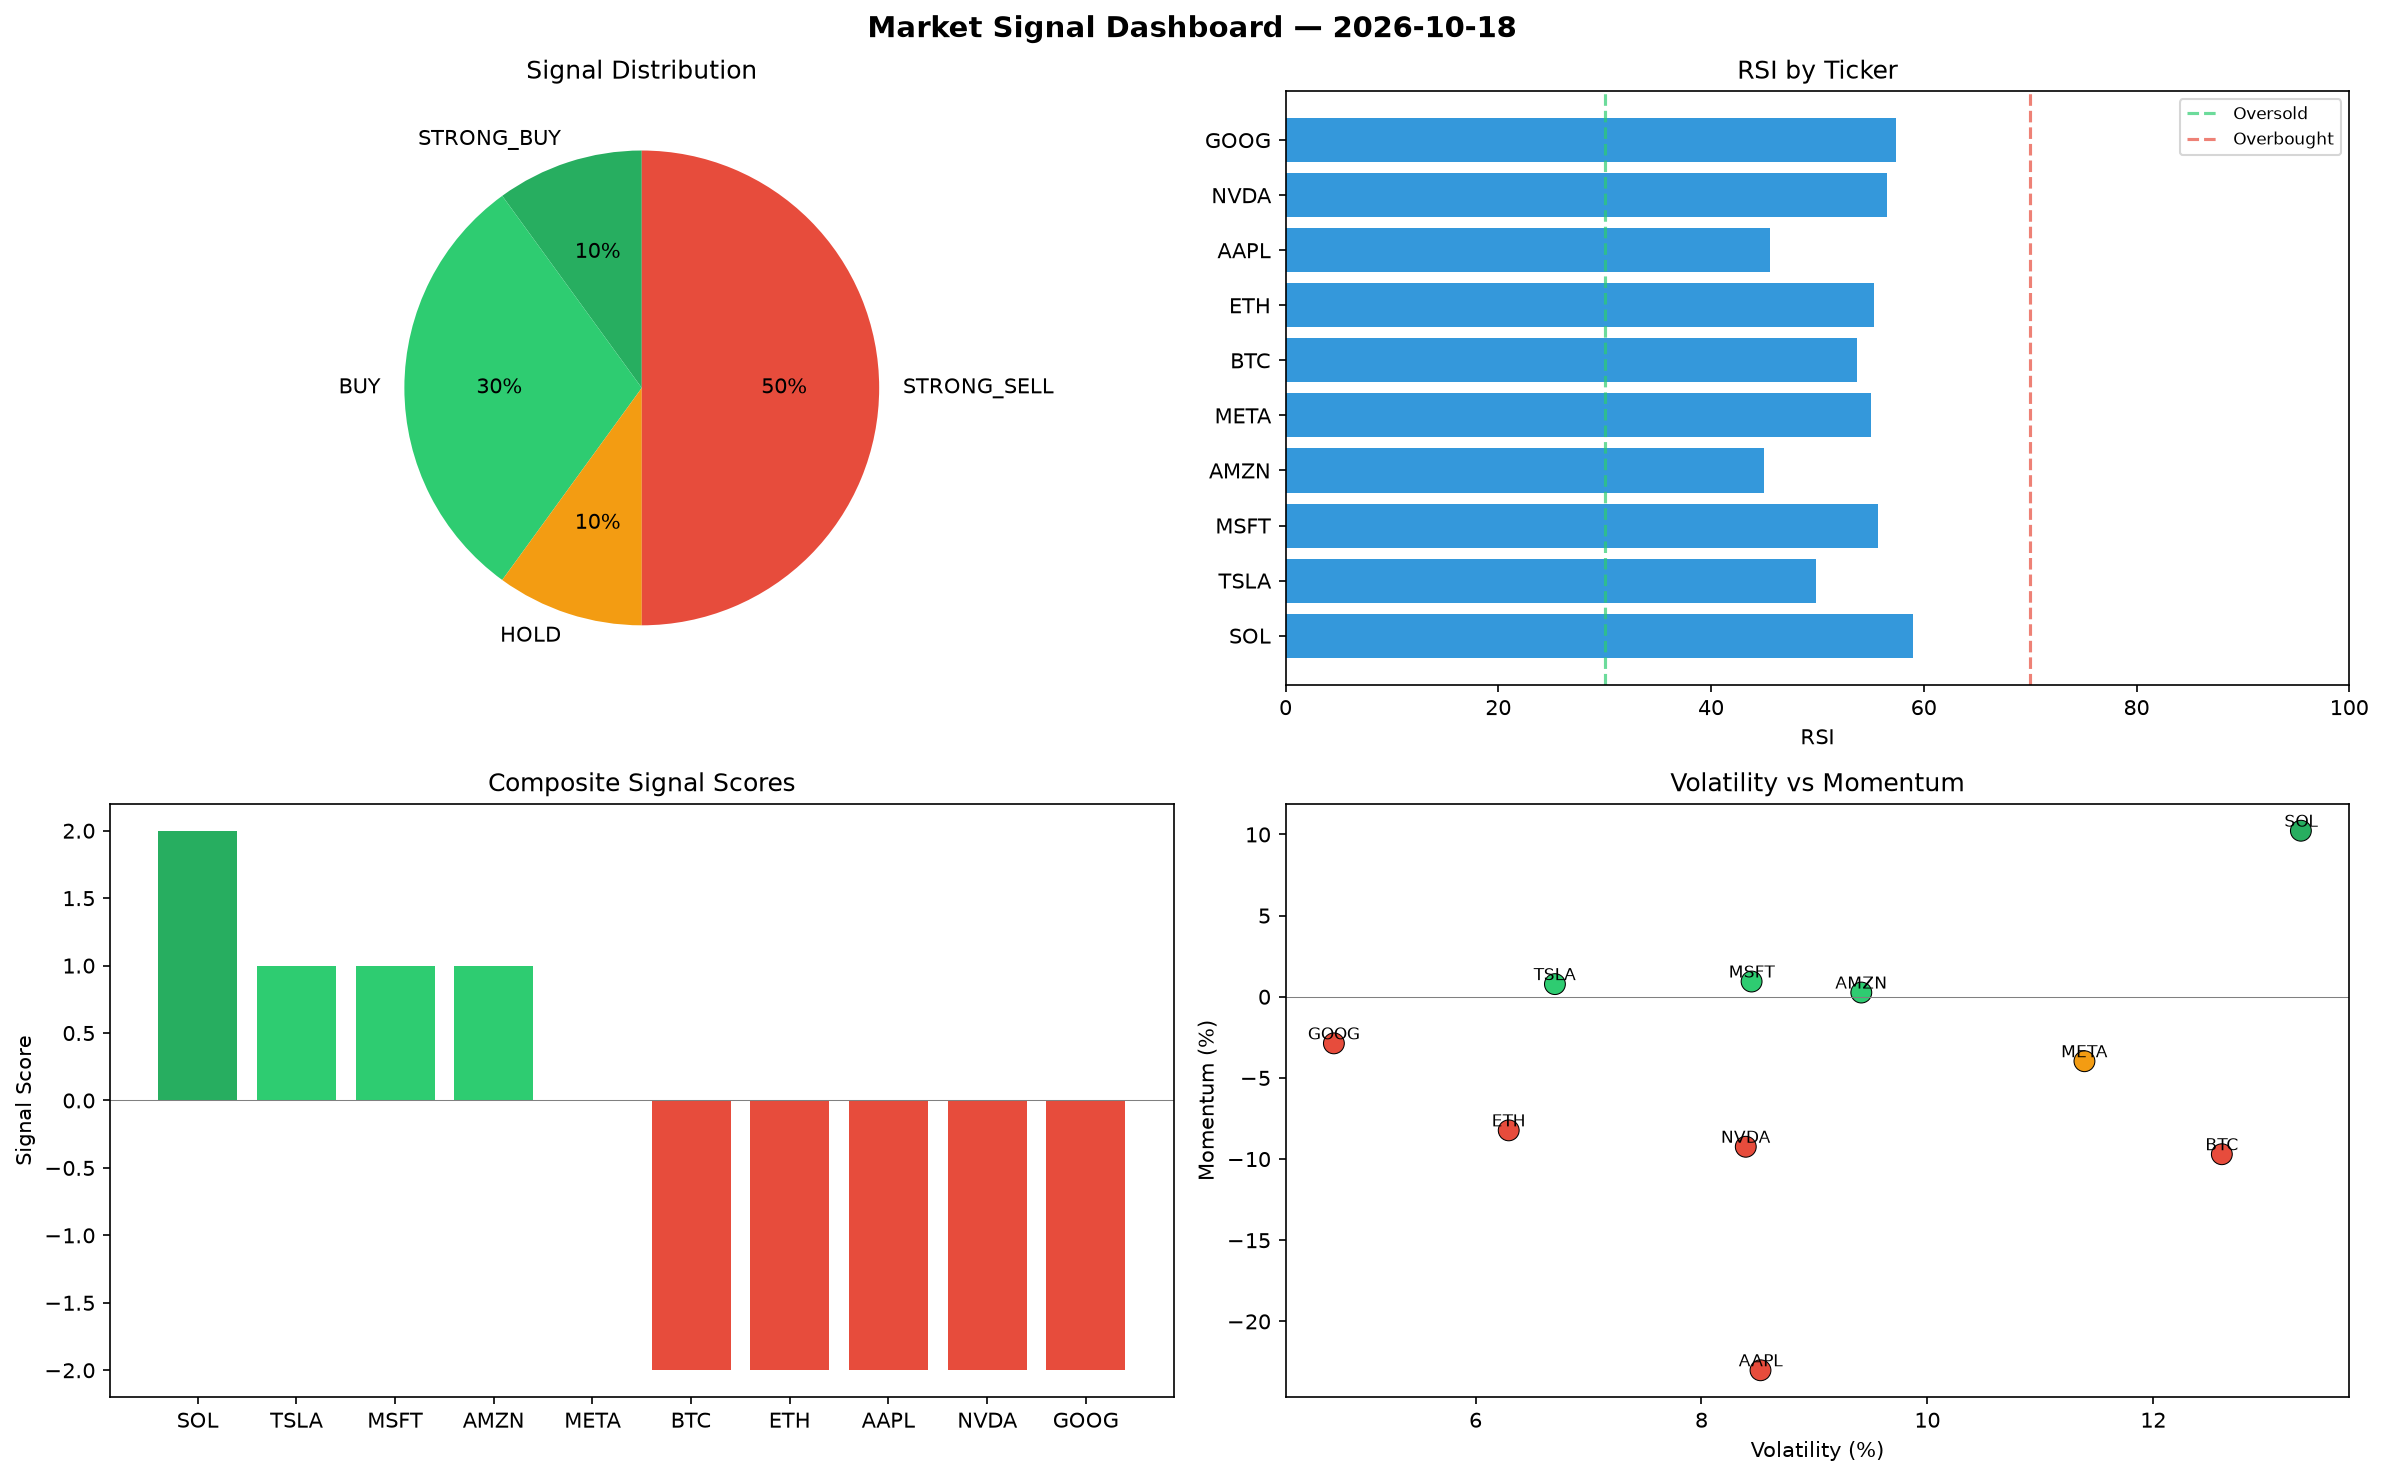
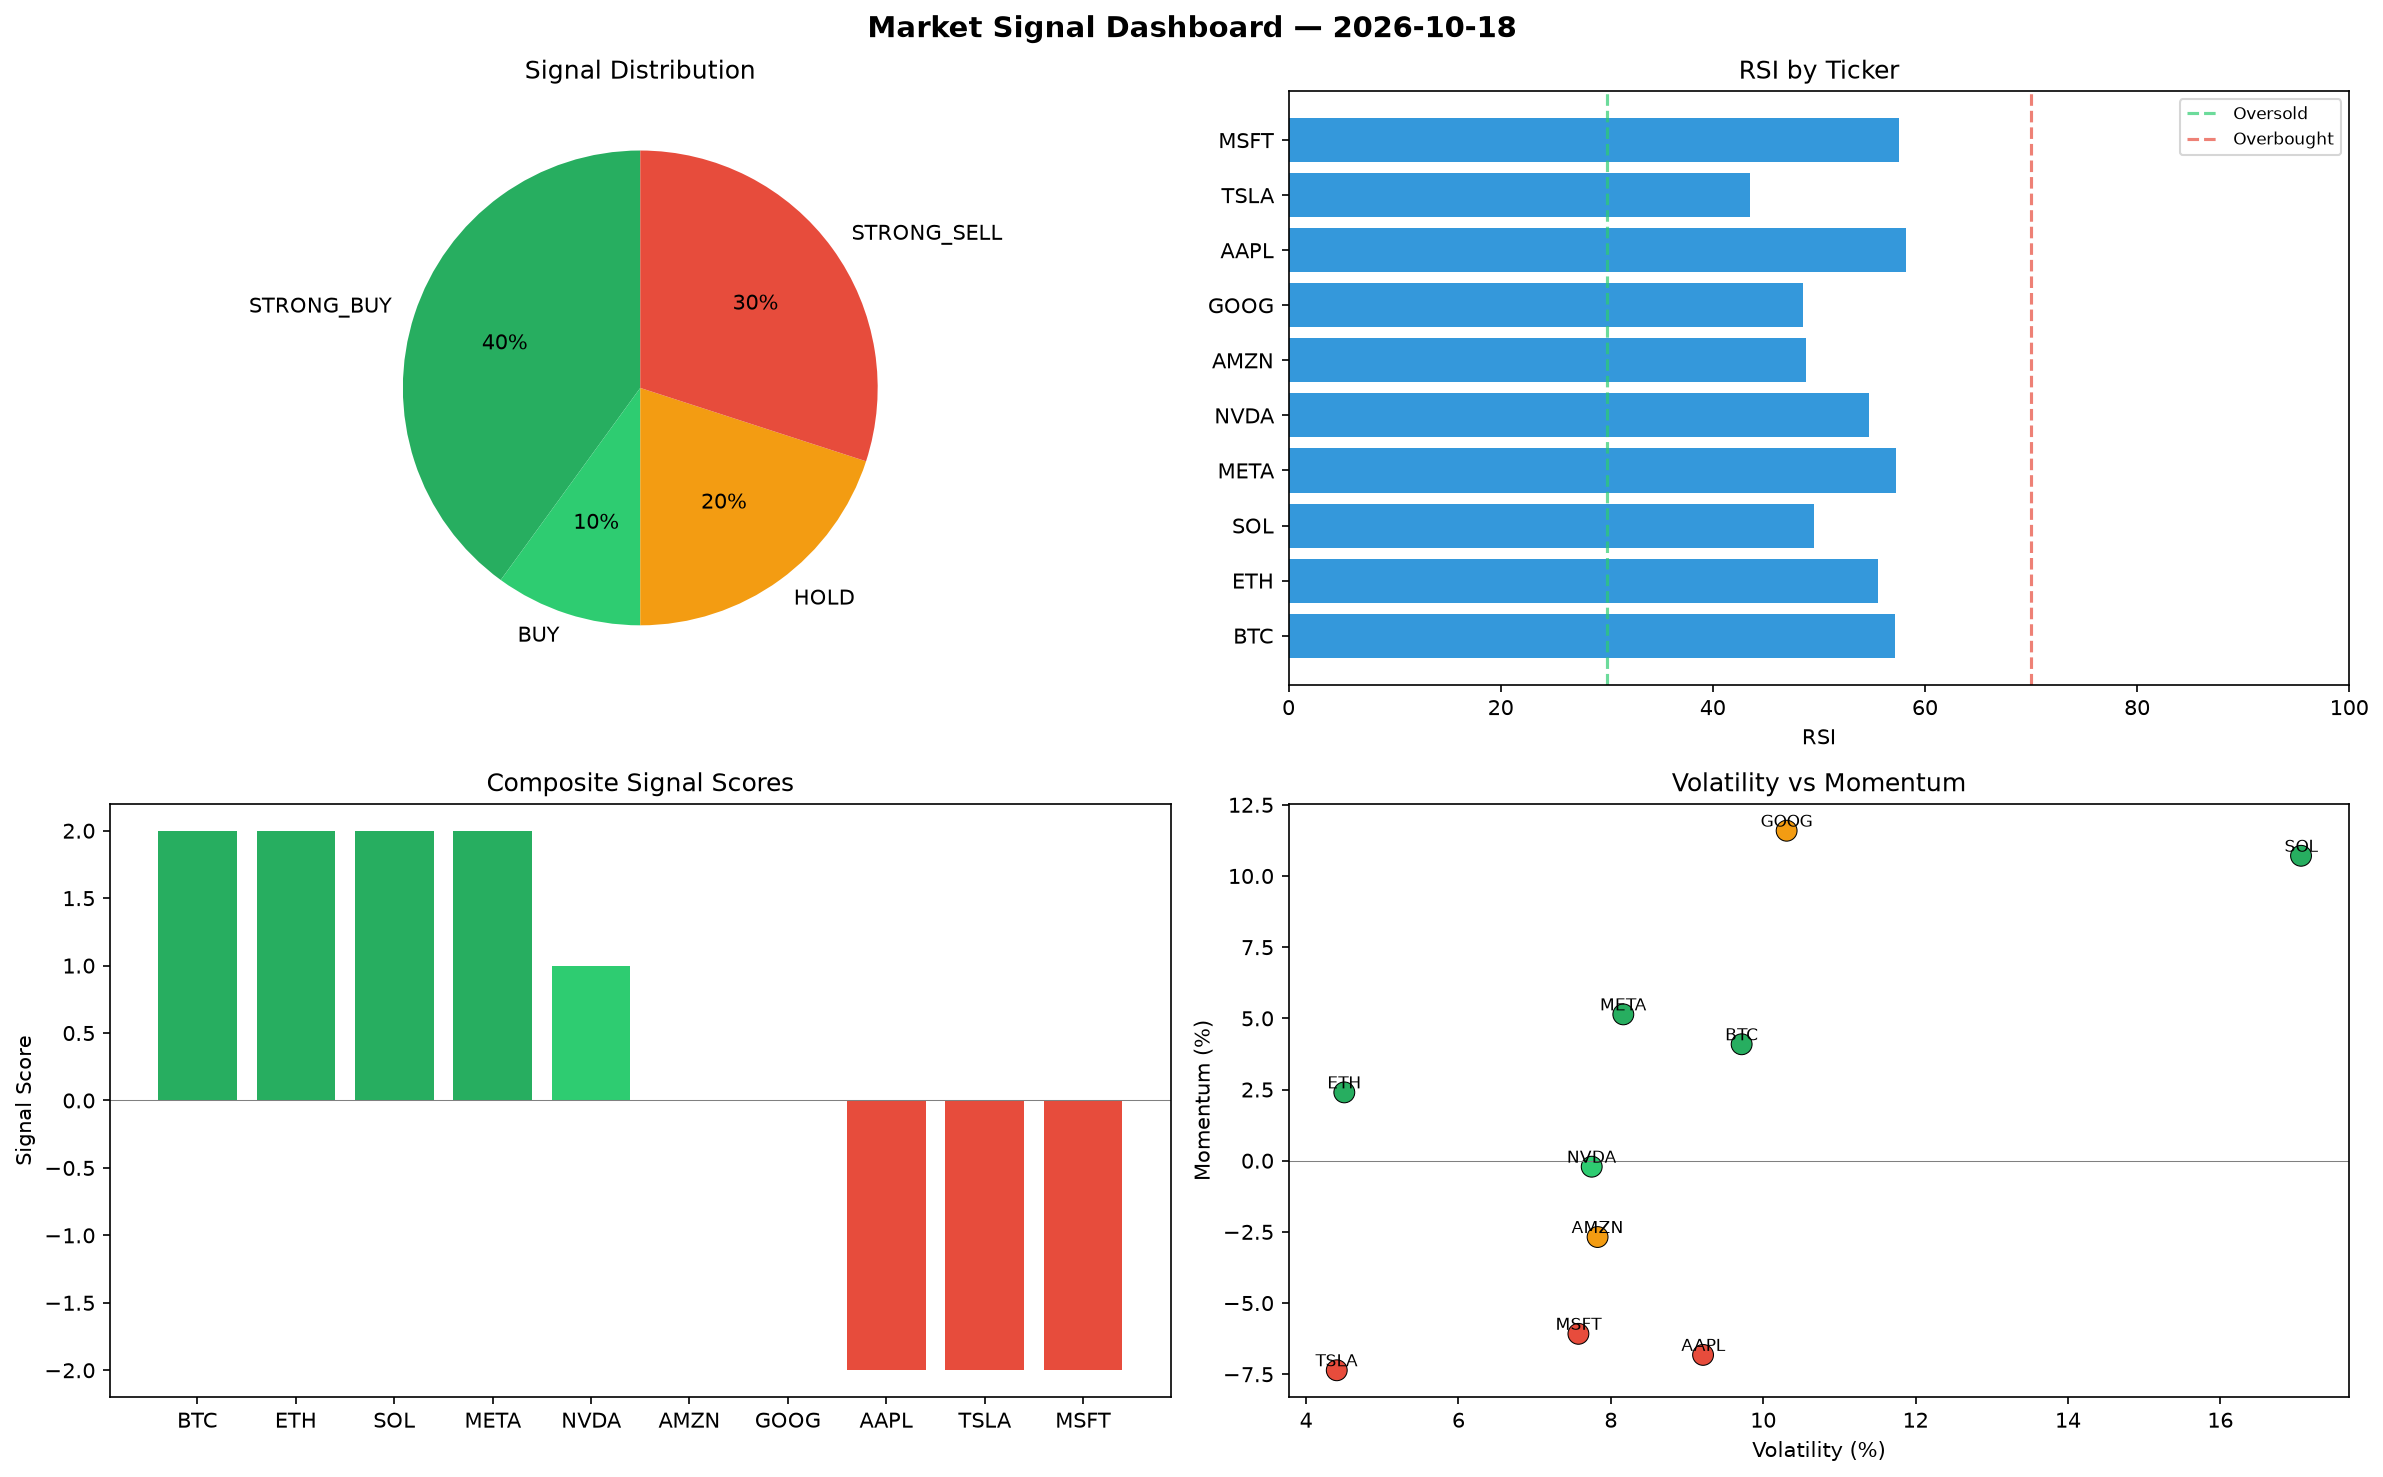
automated-bots: market signals 2026-10-18T17:28

diff --git a/logs/2026-10-18.md b/logs/2026-10-18.md
@@ -1,6 +1,6 @@
 # Market Signal Report — 2026-10-18
 
-**Run ID:** `7756ad7e94` | **Buy:** 4 | **Sell:** 5 | **Hold:** 1
+**Run ID:** `a3762b2951` | **Buy:** 5 | **Sell:** 3 | **Hold:** 2
 
 ![Dashboard](2026-10-18_dashboard.png)
 
@@ -8,28 +8,28 @@
 
 | Ticker | Price | Signal | Score | RSI | Momentum | Confidence |
 |--------|-------|--------|-------|-----|----------|------------|
-| SOL | $2808.23 | **STRONG_BUY** | 2 | 59.02 | 0.1023 | 0.5 |
-| TSLA | $1461.75 | **BUY** | 1 | 49.85 | 0.0078 | 0.25 |
-| MSFT | $3056.37 | **BUY** | 1 | 55.66 | 0.0094 | 0.25 |
-| AMZN | $2101.94 | **BUY** | 1 | 44.98 | 0.0026 | 0.25 |
-| META | $3427.75 | **HOLD** | 0 | 55.01 | -0.0397 | 0.0 |
-| BTC | $2539.2 | **STRONG_SELL** | -2 | 53.76 | -0.097 | 0.5 |
-| ETH | $4533.99 | **STRONG_SELL** | -2 | 55.35 | -0.0823 | 0.5 |
-| AAPL | $2853.27 | **STRONG_SELL** | -2 | 45.51 | -0.2301 | 0.5 |
-| NVDA | $4555.36 | **STRONG_SELL** | -2 | 56.55 | -0.0924 | 0.5 |
-| GOOG | $1716.59 | **STRONG_SELL** | -2 | 57.37 | -0.0287 | 0.5 |
+| BTC | $3999.92 | **STRONG_BUY** | 2 | 57.16 | 0.0409 | 0.5 |
+| ETH | $2543.24 | **STRONG_BUY** | 2 | 55.58 | 0.024 | 0.5 |
+| SOL | $974.62 | **STRONG_BUY** | 2 | 49.58 | 0.1071 | 0.5 |
+| META | $2125.0 | **STRONG_BUY** | 2 | 57.23 | 0.0514 | 0.5 |
+| NVDA | $3154.75 | **BUY** | 1 | 54.77 | -0.0021 | 0.25 |
+| AMZN | $510.11 | **HOLD** | 0 | 48.78 | -0.0268 | 0.0 |
+| GOOG | $1478.77 | **HOLD** | 0 | 48.47 | 0.1159 | 0.0 |
+| AAPL | $3106.2 | **STRONG_SELL** | -2 | 58.19 | -0.0682 | 0.5 |
+| TSLA | $1390.06 | **STRONG_SELL** | -2 | 43.49 | -0.0736 | 0.5 |
+| MSFT | $3627.75 | **STRONG_SELL** | -2 | 57.55 | -0.0608 | 0.5 |
 
 ## Delta vs Yesterday
 
 | Ticker | Today | Yesterday | Price Change | Signal Changed |
 |--------|-------|-----------|-------------|----------------|
-| SOL | STRONG_BUY | STRONG_SELL | 📈 760.68% | ⚠ YES |
-| TSLA | BUY | STRONG_SELL | 📉 -31.99% | ⚠ YES |
-| MSFT | BUY | HOLD | 📉 -13.68% | ⚠ YES |
-| AMZN | BUY | SELL | 📉 -51.98% | ⚠ YES |
-| META | HOLD | STRONG_BUY | 📈 96.55% | ⚠ YES |
-| BTC | STRONG_SELL | HOLD | 📉 -14.96% | ⚠ YES |
-| ETH | STRONG_SELL | STRONG_BUY | 📈 53.49% | ⚠ YES |
-| AAPL | STRONG_SELL | STRONG_BUY | 📈 72.88% | ⚠ YES |
-| NVDA | STRONG_SELL | HOLD | 📈 33.67% | ⚠ YES |
-| GOOG | STRONG_SELL | STRONG_BUY | 📉 -57.77% | ⚠ YES |
+| BTC | STRONG_BUY | HOLD | 📈 33.96% | ⚠ YES |
+| ETH | STRONG_BUY | STRONG_BUY | 📉 -13.9% | — |
+| SOL | STRONG_BUY | STRONG_SELL | 📈 198.71% | ⚠ YES |
+| META | STRONG_BUY | STRONG_BUY | 📈 21.85% | — |
+| NVDA | BUY | HOLD | 📉 -7.43% | ⚠ YES |
+| AMZN | HOLD | SELL | 📉 -88.35% | ⚠ YES |
+| GOOG | HOLD | STRONG_BUY | 📉 -63.62% | ⚠ YES |
+| AAPL | STRONG_SELL | STRONG_BUY | 📈 88.2% | ⚠ YES |
+| TSLA | STRONG_SELL | STRONG_SELL | 📉 -35.32% | — |
+| MSFT | STRONG_SELL | HOLD | 📈 2.45% | ⚠ YES |
